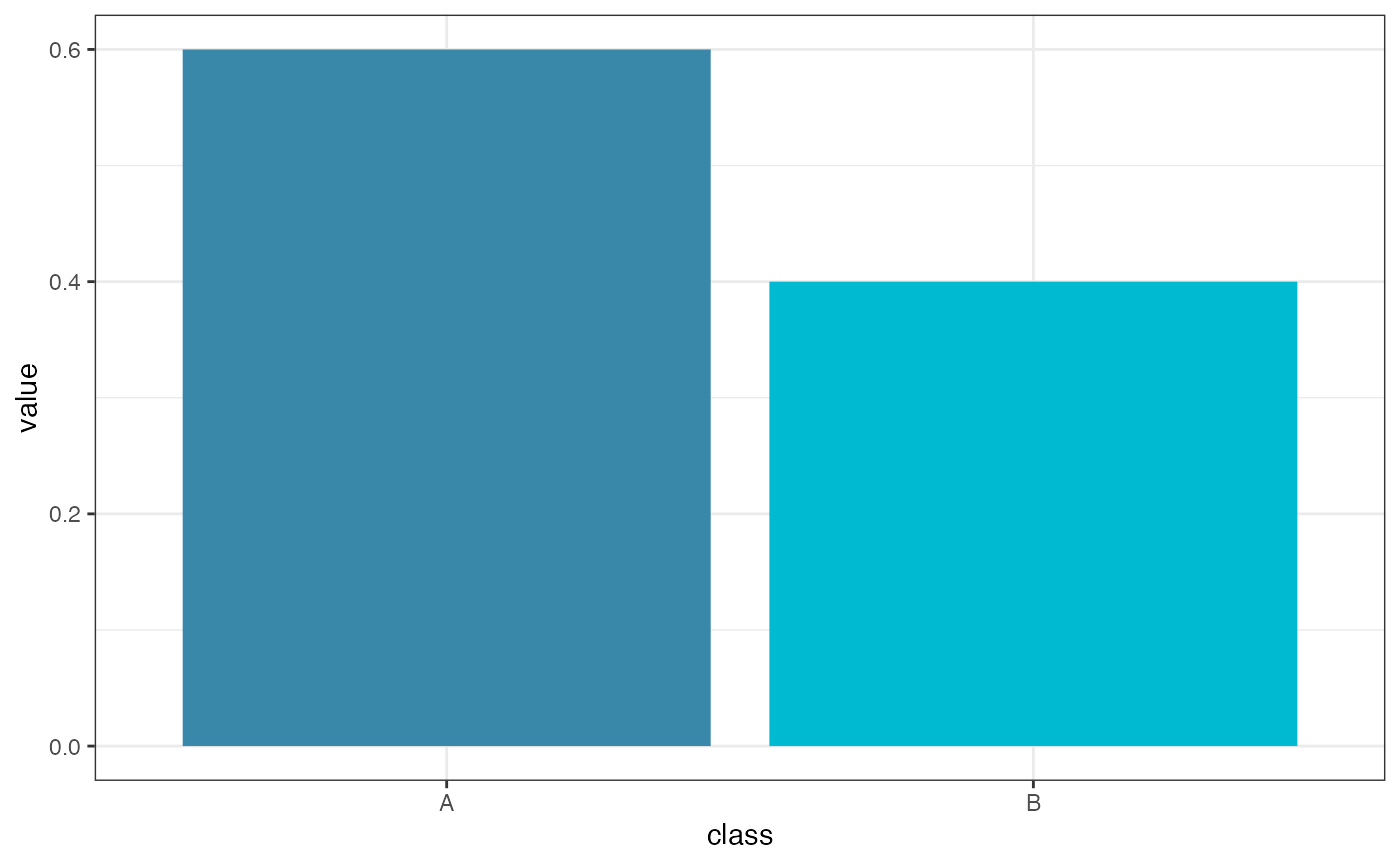
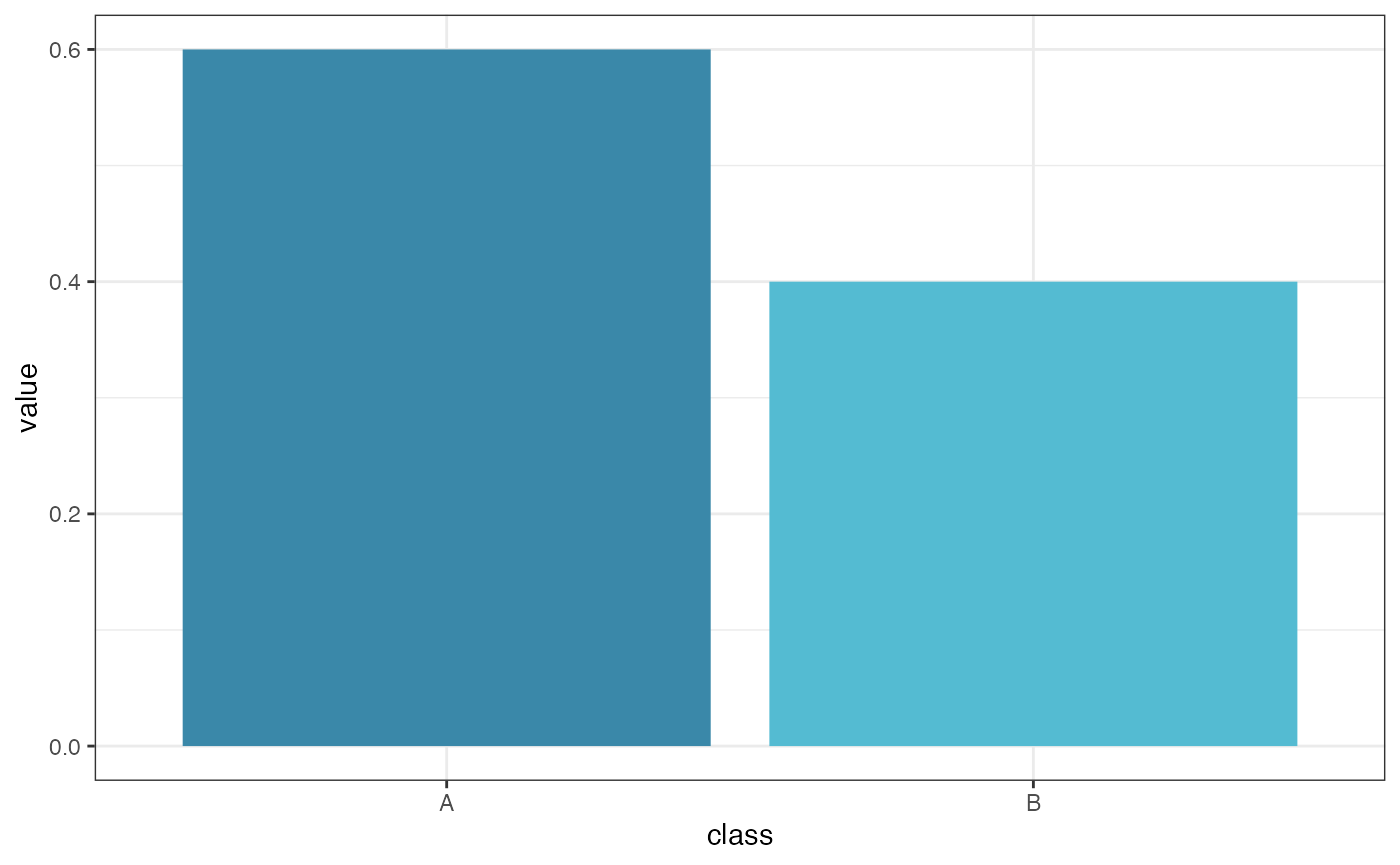
Fixing gh-pages

Changed region(s): [[0.5221, 0.3121, 0.9521, 0.874]]

diff --git a/docs/index.html b/docs/index.html
@@ -111,16 +111,16 @@
 <p>A basic plot of this data would look like this</p>
 <div class="sourceCode" id="cb5"><pre class="downlit sourceCode r">
 <code class="sourceCode R"><span><span class="va">plot_data</span> <span class="op">%&gt;%</span></span>
-<span>  <span class="fu">ggplot</span><span class="op">(</span><span class="fu">aes</span><span class="op">(</span>x <span class="op">=</span> <span class="va">class</span>, y <span class="op">=</span> <span class="va">value</span>, fill <span class="op">=</span> <span class="va">class</span><span class="op">)</span><span class="op">)</span> <span class="op">+</span></span>
-<span>  <span class="fu">geom_col</span><span class="op">(</span><span class="op">)</span> <span class="op">+</span></span>
-<span>  <span class="fu">theme_classic</span><span class="op">(</span><span class="op">)</span></span></code></pre></div>
+<span>  <span class="fu"><a href="https://ggplot2.tidyverse.org/reference/ggplot.html" class="external-link">ggplot</a></span><span class="op">(</span><span class="fu"><a href="https://ggplot2.tidyverse.org/reference/aes.html" class="external-link">aes</a></span><span class="op">(</span>x <span class="op">=</span> <span class="va">class</span>, y <span class="op">=</span> <span class="va">value</span>, fill <span class="op">=</span> <span class="va">class</span><span class="op">)</span><span class="op">)</span> <span class="op">+</span></span>
+<span>  <span class="fu"><a href="https://ggplot2.tidyverse.org/reference/geom_bar.html" class="external-link">geom_col</a></span><span class="op">(</span><span class="op">)</span> <span class="op">+</span></span>
+<span>  <span class="fu"><a href="https://ggplot2.tidyverse.org/reference/ggtheme.html" class="external-link">theme_classic</a></span><span class="op">(</span><span class="op">)</span></span></code></pre></div>
 <p><img src="reference/figures/README-unnamed-chunk-5-1.png" width="100%"></p>
 <p>A layer can be added to change the fill of the boxes to match that of the MRC HGU powerpoint theme</p>
 <div class="sourceCode" id="cb6"><pre class="downlit sourceCode r">
 <code class="sourceCode R"><span><span class="va">plot_data</span> <span class="op">%&gt;%</span></span>
-<span>  <span class="fu">ggplot</span><span class="op">(</span><span class="fu">aes</span><span class="op">(</span>x <span class="op">=</span> <span class="va">class</span>, y <span class="op">=</span> <span class="va">value</span>, fill <span class="op">=</span> <span class="va">class</span><span class="op">)</span><span class="op">)</span> <span class="op">+</span></span>
-<span>  <span class="fu">geom_col</span><span class="op">(</span><span class="op">)</span> <span class="op">+</span></span>
-<span>  <span class="fu">theme_classic</span><span class="op">(</span><span class="op">)</span> <span class="op">+</span></span>
+<span>  <span class="fu"><a href="https://ggplot2.tidyverse.org/reference/ggplot.html" class="external-link">ggplot</a></span><span class="op">(</span><span class="fu"><a href="https://ggplot2.tidyverse.org/reference/aes.html" class="external-link">aes</a></span><span class="op">(</span>x <span class="op">=</span> <span class="va">class</span>, y <span class="op">=</span> <span class="va">value</span>, fill <span class="op">=</span> <span class="va">class</span><span class="op">)</span><span class="op">)</span> <span class="op">+</span></span>
+<span>  <span class="fu"><a href="https://ggplot2.tidyverse.org/reference/geom_bar.html" class="external-link">geom_col</a></span><span class="op">(</span><span class="op">)</span> <span class="op">+</span></span>
+<span>  <span class="fu"><a href="https://ggplot2.tidyverse.org/reference/ggtheme.html" class="external-link">theme_classic</a></span><span class="op">(</span><span class="op">)</span> <span class="op">+</span></span>
 <span>  <span class="fu"><a href="reference/scale_fill_hgu3.html">scale_fill_hgu3</a></span><span class="op">(</span><span class="op">)</span></span></code></pre></div>
 <p><img src="reference/figures/README-unnamed-chunk-6-1.png" width="100%"></p>
 </div>

diff --git a/docs/articles/HGUTheme.html b/docs/articles/HGUTheme.html
@@ -154,7 +154,7 @@ for text box text and shapes). Here are these three colours in hex:</p>
 <span><span class="co">#&gt; [1] "#3A88A9"</span></span>
 <span><span class="co"># MRC HGU Light Blue</span></span>
 <span><span class="fu"><a href="../reference/hgu_light.html">hgu_light</a></span><span class="op">(</span><span class="op">)</span></span>
-<span><span class="co">#&gt; [1] "#00BAD2"</span></span></code></pre></div>
+<span><span class="co">#&gt; [1] "#54BBD2"</span></span></code></pre></div>
 <p>These can be useful for quickly colouring <code>ggplot2</code> plots,
 lets make a quick example. A fairly common plot you might make as a
 scientist is a scatter plot with a trend and then putting a linear
@@ -166,18 +166,18 @@ regression line on top. First we can make some fake data</p>
 <span><span class="op">)</span></span>
 <span><span class="va">plot_data</span></span>
 <span><span class="co">#&gt; <span style="color: #949494;"># A tibble: 100 × 2</span></span></span>
-<span><span class="co">#&gt;        x     y</span></span>
-<span><span class="co">#&gt;    <span style="color: #949494; font-style: italic;">&lt;dbl&gt;</span> <span style="color: #949494; font-style: italic;">&lt;dbl&gt;</span></span></span>
-<span><span class="co">#&gt; <span style="color: #BCBCBC;"> 1</span> 0.378 0.368</span></span>
-<span><span class="co">#&gt; <span style="color: #BCBCBC;"> 2</span> 0.298 0.522</span></span>
-<span><span class="co">#&gt; <span style="color: #BCBCBC;"> 3</span> 0.720 0.793</span></span>
-<span><span class="co">#&gt; <span style="color: #BCBCBC;"> 4</span> 0.145 0.335</span></span>
-<span><span class="co">#&gt; <span style="color: #BCBCBC;"> 5</span> 0.977 1.07 </span></span>
-<span><span class="co">#&gt; <span style="color: #BCBCBC;"> 6</span> 0.340 0.640</span></span>
-<span><span class="co">#&gt; <span style="color: #BCBCBC;"> 7</span> 0.274 0.299</span></span>
-<span><span class="co">#&gt; <span style="color: #BCBCBC;"> 8</span> 0.347 0.354</span></span>
-<span><span class="co">#&gt; <span style="color: #BCBCBC;"> 9</span> 0.475 0.453</span></span>
-<span><span class="co">#&gt; <span style="color: #BCBCBC;">10</span> 0.244 0.436</span></span>
+<span><span class="co">#&gt;         x      y</span></span>
+<span><span class="co">#&gt;     <span style="color: #949494; font-style: italic;">&lt;dbl&gt;</span>  <span style="color: #949494; font-style: italic;">&lt;dbl&gt;</span></span></span>
+<span><span class="co">#&gt; <span style="color: #BCBCBC;"> 1</span> 0.721  0.592 </span></span>
+<span><span class="co">#&gt; <span style="color: #BCBCBC;"> 2</span> 0.027<span style="text-decoration: underline;">6</span> 0.032<span style="text-decoration: underline;">7</span></span></span>
+<span><span class="co">#&gt; <span style="color: #BCBCBC;"> 3</span> 0.338  0.429 </span></span>
+<span><span class="co">#&gt; <span style="color: #BCBCBC;"> 4</span> 0.846  1.11  </span></span>
+<span><span class="co">#&gt; <span style="color: #BCBCBC;"> 5</span> 0.227  0.200 </span></span>
+<span><span class="co">#&gt; <span style="color: #BCBCBC;"> 6</span> 0.728  0.705 </span></span>
+<span><span class="co">#&gt; <span style="color: #BCBCBC;"> 7</span> 0.899  0.805 </span></span>
+<span><span class="co">#&gt; <span style="color: #BCBCBC;"> 8</span> 0.591  0.480 </span></span>
+<span><span class="co">#&gt; <span style="color: #BCBCBC;"> 9</span> 0.534  0.465 </span></span>
+<span><span class="co">#&gt; <span style="color: #BCBCBC;">10</span> 0.382  0.285 </span></span>
 <span><span class="co">#&gt; <span style="color: #949494;"># … with 90 more rows</span></span></span></code></pre></div>
 <p>Then we can make a simple plot that you might make for a
 presentation:</p>

diff --git a/docs/reference/hgu_palette.html b/docs/reference/hgu_palette.html
@@ -68,11 +68,13 @@
     <h2 id="ref-examples">Examples<a class="anchor" aria-label="anchor" href="#ref-examples"></a></h2>
     <div class="sourceCode"><pre class="sourceCode r"><code><span class="r-in"><span><span class="va">colour_palette</span> <span class="op">&lt;-</span> <span class="va">hgu_palette</span></span></span>
 <span class="r-in"><span><span class="va">colour_palette</span></span></span>
-<span class="r-out co"><span class="r-pr">#&gt;</span> function () </span>
-<span class="r-out co"><span class="r-pr">#&gt;</span> {</span>
-<span class="r-out co"><span class="r-pr">#&gt;</span>     c(hgu_dark(), hgu_mid(), hgu_light())</span>
+<span class="r-out co"><span class="r-pr">#&gt;</span> function() {</span>
+<span class="r-out co"><span class="r-pr">#&gt;</span>   c(</span>
+<span class="r-out co"><span class="r-pr">#&gt;</span>     hgu_dark(),</span>
+<span class="r-out co"><span class="r-pr">#&gt;</span>     hgu_mid(),</span>
+<span class="r-out co"><span class="r-pr">#&gt;</span>     hgu_light()</span>
+<span class="r-out co"><span class="r-pr">#&gt;</span>   )</span>
 <span class="r-out co"><span class="r-pr">#&gt;</span> }</span>
-<span class="r-out co"><span class="r-pr">#&gt;</span> &lt;bytecode: 0x7fb92e59c2e0&gt;</span>
 <span class="r-out co"><span class="r-pr">#&gt;</span> &lt;environment: namespace:HGUTheme&gt;</span>
 </code></pre></div>
     </div>
